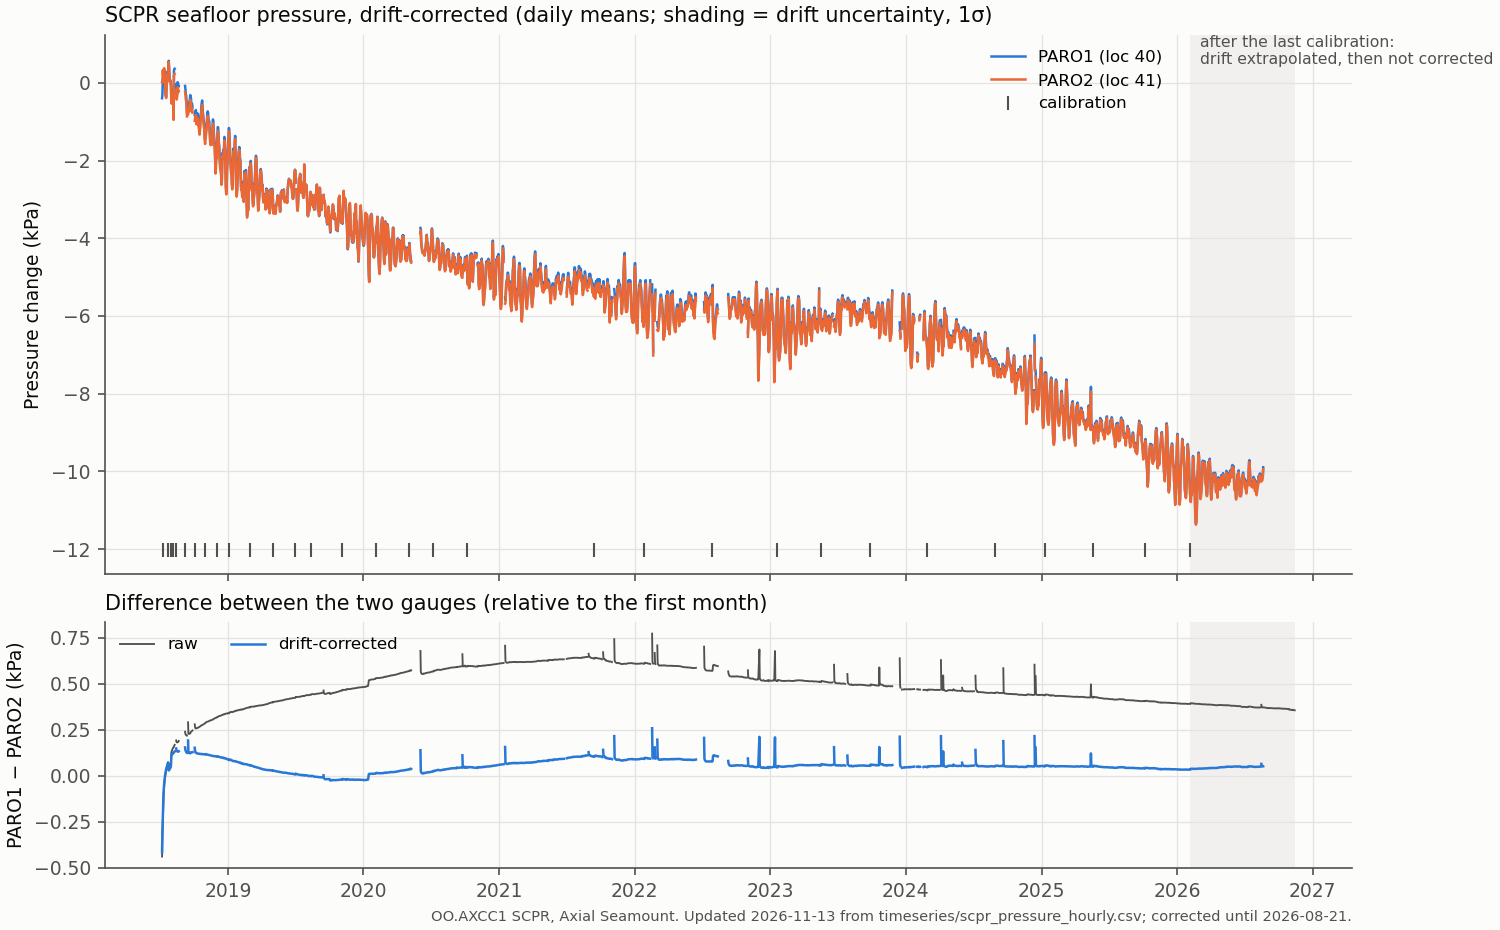
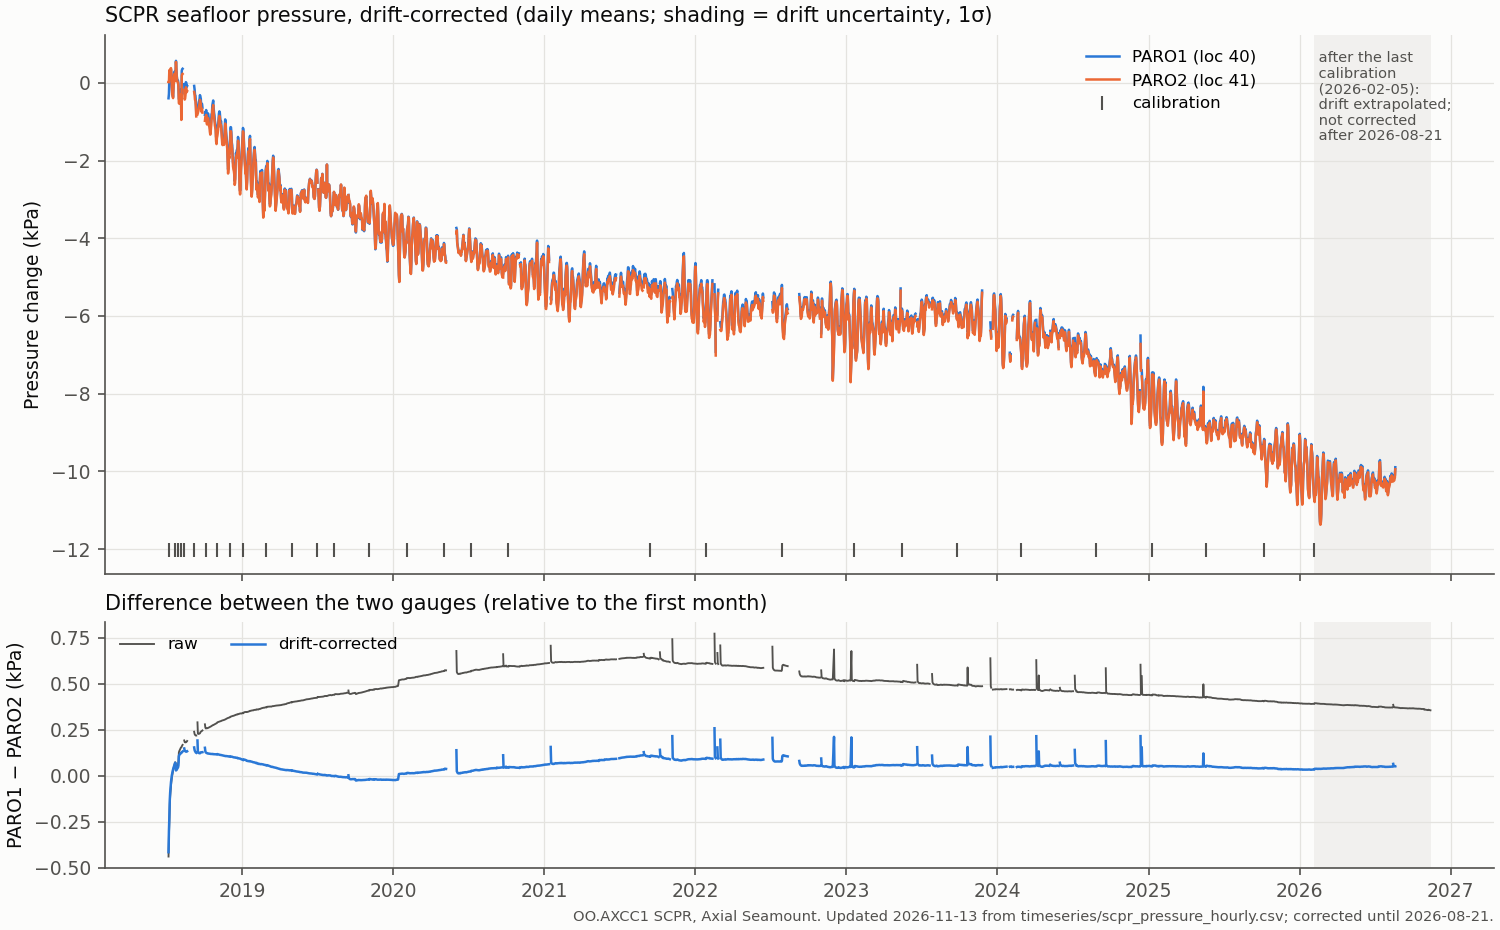
Figures: label the shaded span after the last calibration (drift extrapolated, then not corrected)

diff --git a/SCPR-data-collection/bin/scpr_export.py b/SCPR-data-collection/bin/scpr_export.py
@@ -153,6 +153,15 @@ COLORS = {"PARO1": "#2a78d6", "PARO2": "#eb6834"}
 INK, INK2, GRID, SURFACE = "#0b0b0b", "#52514e", "#e4e3df", "#fcfcfb"
 
 
+def label_extrapolated(ax, last_cal, valid, y_frac: float = 0.03, va: str = "bottom") -> None:
+    """Say what the shaded span after the last calibration is, inside it."""
+    import matplotlib.transforms as mtransforms
+    tr = mtransforms.blended_transform_factory(ax.transData, ax.transAxes)
+    ax.text(last_cal, y_frac, f" after the last\n calibration\n ({str(last_cal)[:10]}):\n drift extrapolated;\n"
+                              f" not corrected\n after {str(valid)[:10]}",
+            transform=tr, color=INK2, fontsize=7, va=va, ha="left", linespacing=1.15)
+
+
 def read_csv(path: Path) -> tuple[np.ndarray, dict, list[str]]:
     lines = path.read_text().splitlines()
     head = [l for l in lines if l.startswith("#")]
@@ -207,9 +216,8 @@ def plot(csv: Path, png: Path) -> Path:
     a1.set_ylabel("Pressure change (kPa)")
     a1.set_title("SCPR seafloor pressure, drift-corrected (daily means; shading = drift uncertainty, 1\u03c3)",
                  loc="left", color=INK, fontsize=10)
-    a1.text(last_cal, a1.get_ylim()[1], "  after the last calibration:\n  drift extrapolated, then not corrected",
-            color=INK2, fontsize=7.5, va="top")
-    a1.legend(loc="upper right", bbox_to_anchor=(0.86, 1.0), frameon=False, fontsize=8, ncol=1)
+    label_extrapolated(a1, last_cal, valid, y_frac=0.97, va="top")
+    a1.legend(loc="upper right", bbox_to_anchor=(0.84, 1.0), frameon=False, fontsize=8, ncol=1)
     for kind, colr, lw, lab in (("raw", INK2, 0.9, "raw"), ("corr", COLORS["PARO1"], 1.2, "drift-corrected")):
         x, d1 = daily(t, c[f"paro1_{kind}_pa"]); _, d2 = daily(t, c[f"paro2_{kind}_pa"])
         dd = (d1 - d2)
@@ -267,6 +275,8 @@ def plot_uplift(csv: Path, png: Path) -> Path:
     fin = np.flatnonzero(np.isfinite(smooth))
     a1.annotate(f"{smooth[fin[-1]] * 100:+.0f} cm", (x[fin[-1]], smooth[fin[-1]]), xytext=(5, 0),
                 textcoords="offset points", va="center", color=INK, fontsize=8.5)
+    valid = np.datetime64(sc.iso_s(models["PARO1"].t_last_valid)[:19])
+    label_extrapolated(a1, last_cal, valid)
     a1.set_ylabel("Uplift since July 2018 (m)")
     a1.set_title("Estimated seafloor uplift at the central caldera, from drift-corrected SCPR pressure",
                  loc="left", color=INK, fontsize=10)
